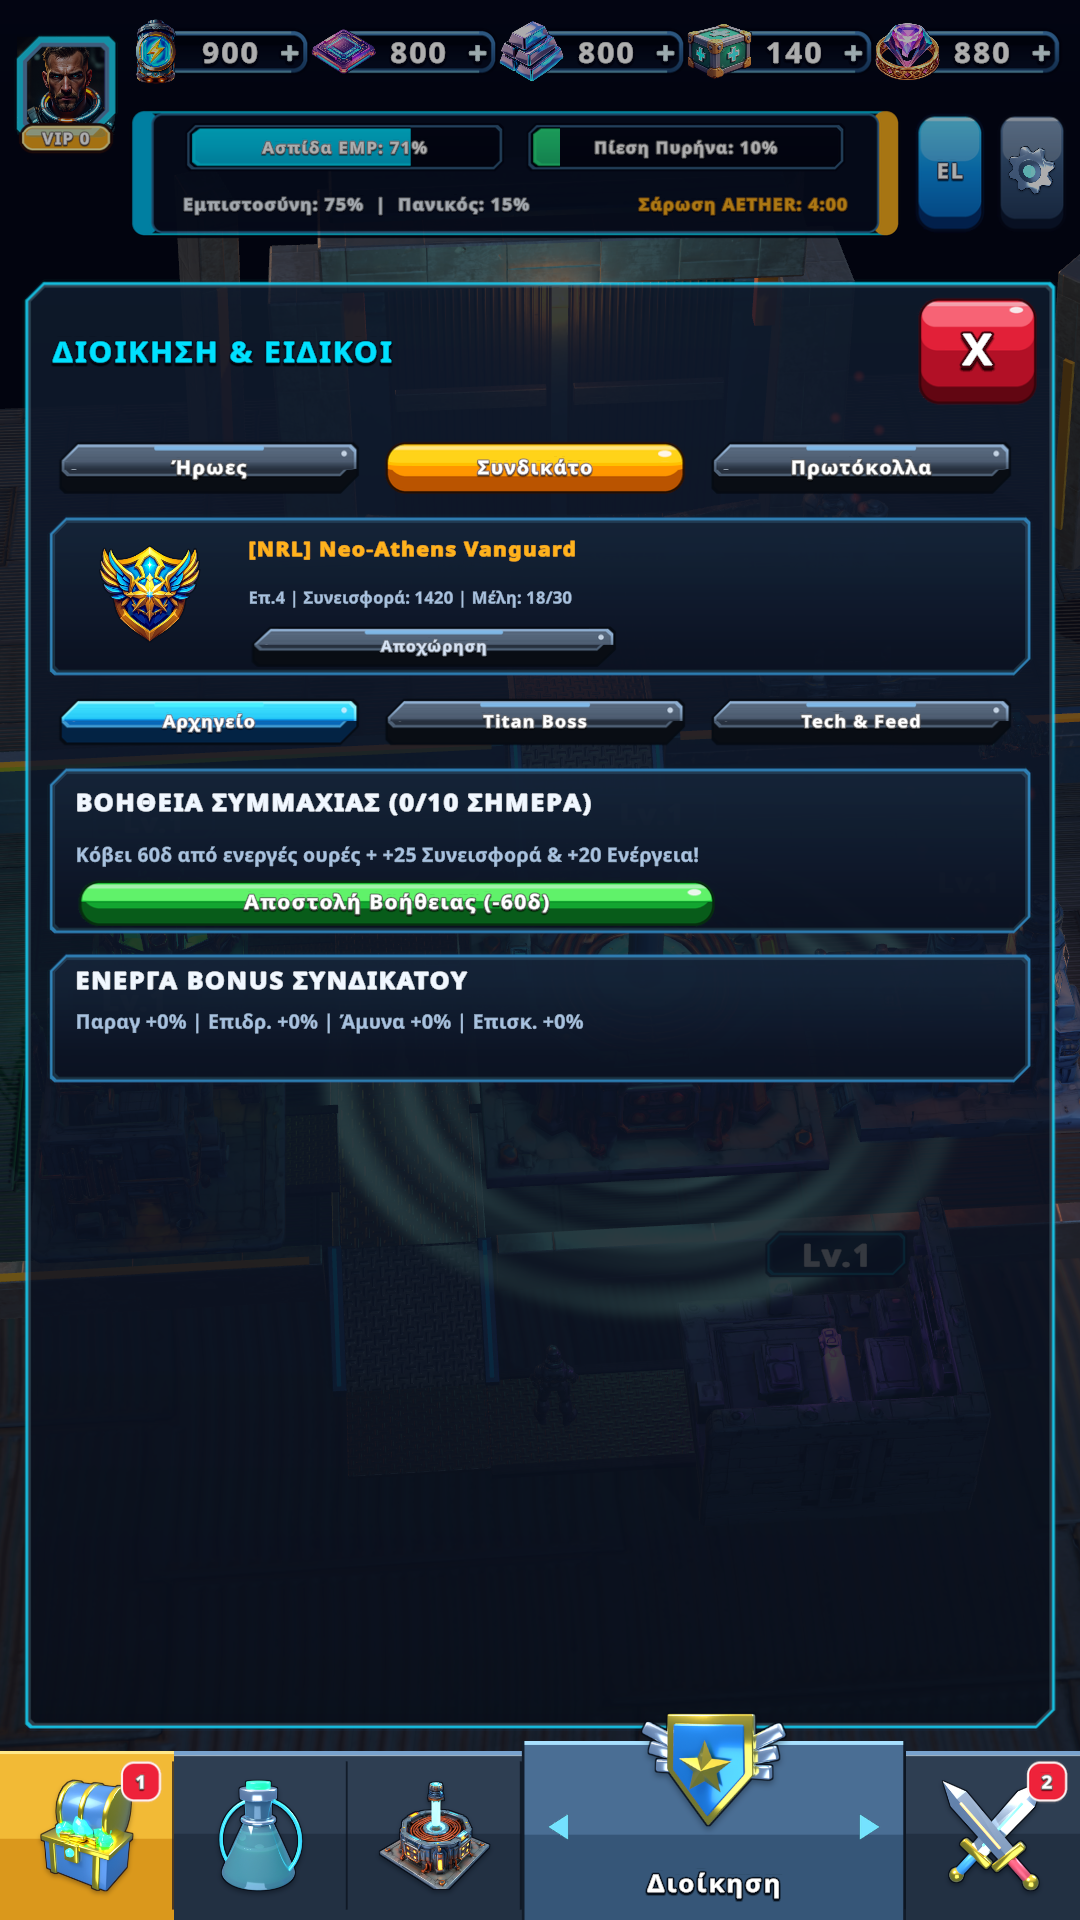
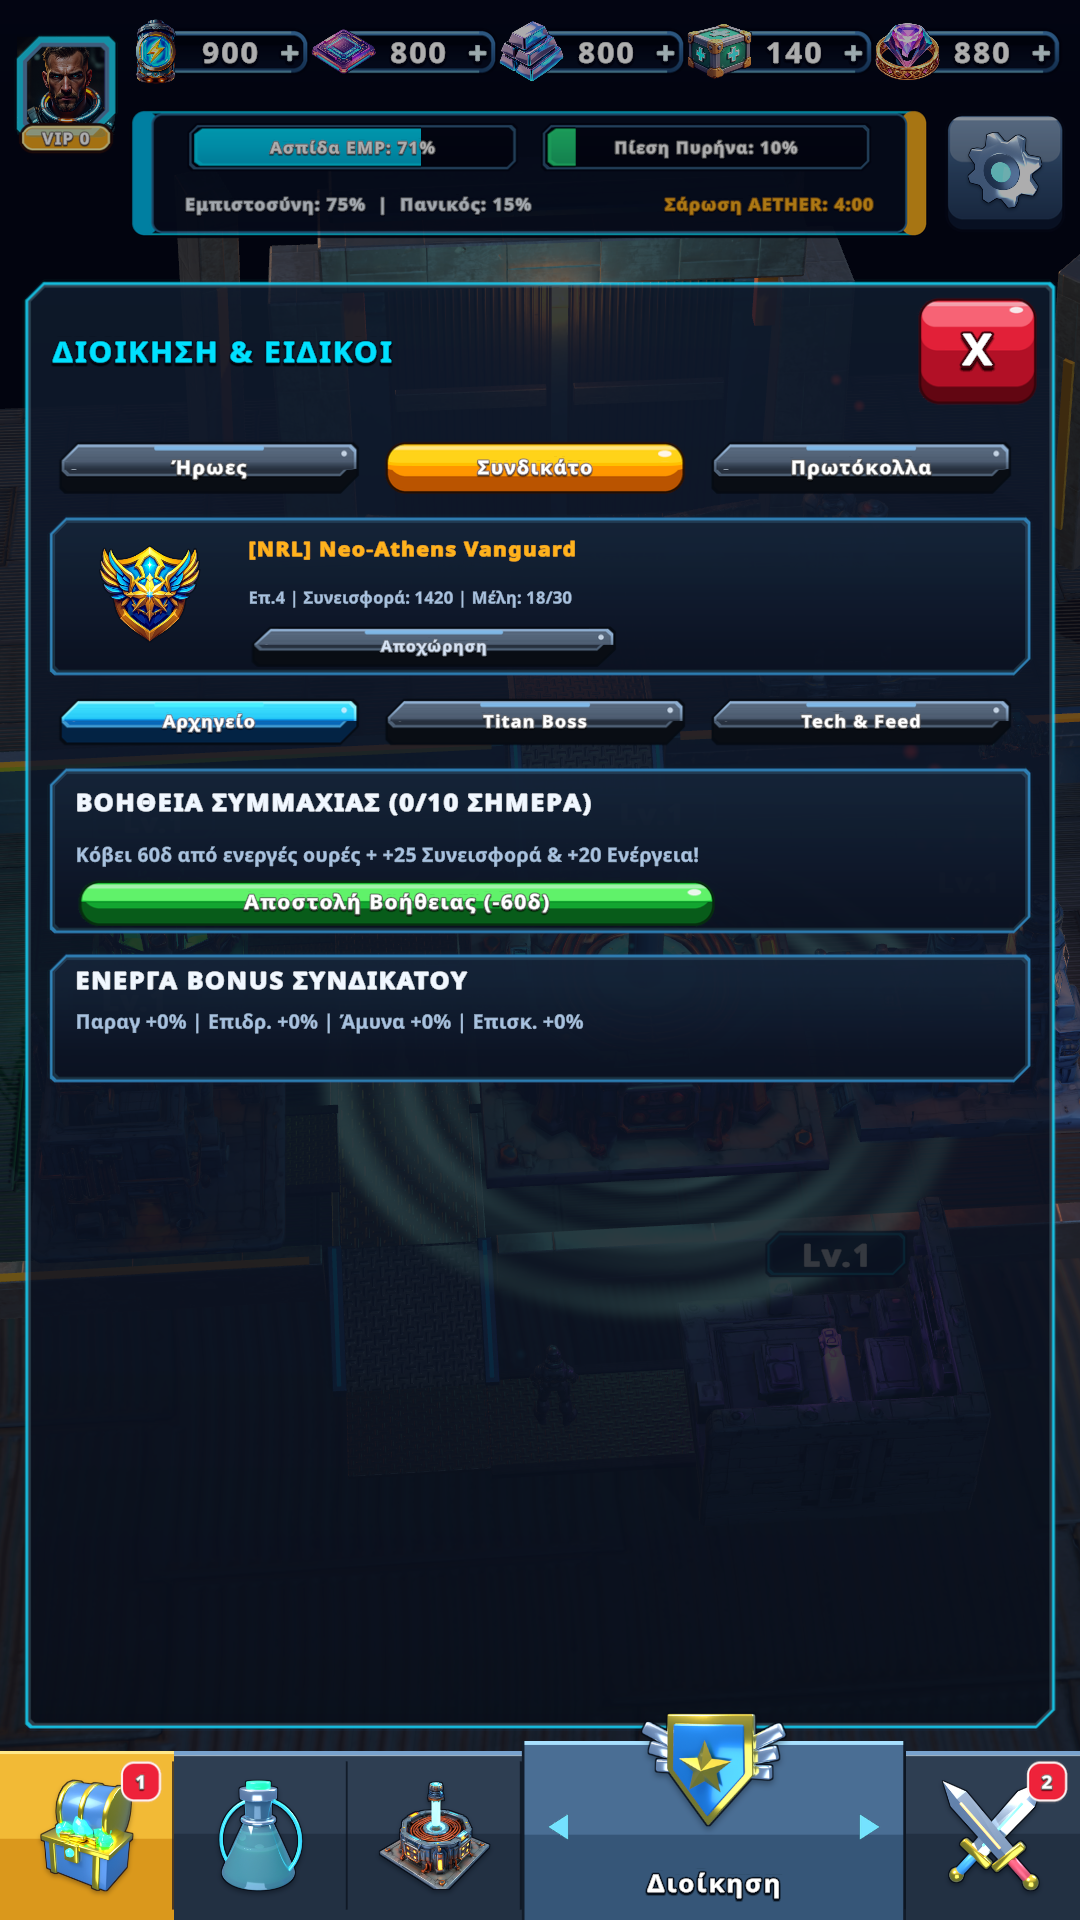
v0.7.1: update previews, version manifest, and top-right HUD docs

Changed region(s): [[0.1833, 0.0312, 0.9778, 0.125], [0.1528, 0.0625, 0.1833, 0.0938]]

diff --git a/README.md b/README.md
@@ -13,14 +13,16 @@
 > **Permanent Always-Latest Direct APK Link (ίδιο όνομα πάντα -> τελευταίο release):**  
 > `https://github.com/jemangr/neuralis-releases/releases/latest/download/Neuralis-ZeroHour.apk`
 
-- **Latest Release:** `v0.7.0` (`VersionCode: 7`)
+- **Latest Release:** `v0.7.1` (`VersionCode: 8`)
 - **Package ID:** `com.jemangr.neuralis.zerohour`
 - **Architecture:** Android ARM64 (IL2CPP), Android 8.0+ (API 26+)
 - **Languages:** Greek (`el`) & English (`en`)
 
 ---
 
-## 🆕 What's New in `v0.7.0`
+## 🆕 What's New in `v0.7.1`
+
+- **Cleaner Top-Right Home HUD:** Removed the standalone `EL/EN` quick button from the home HUD (language switching lives cleanly inside Settings) and replaced the Settings trigger with an exact **1:1 square steel gear tile** alongside an expanded Titanium Telemetry Banner (`StatusStrip`).
 
 - **Cinematic Opening Story Prologue & Hero Mentor Onboarding:** 5-beat visual-novel story prologue (Commander **Kael Vance** & **Dr. Aria Kestrel**) introducing the *AETHER* AI uprising with typewriter narration & Skip button, plus a square Hero Mentor avatar above the guided *Zero Hour Directive*.
 - **24 AAA Hand-Painted Game Icons:** Completely replaced all cube/primitive icons (Hero Tactical Gear, 4 Combat Drones, Nano-Repair Bay, Syndicate Crest, Raid Radar, HUD & Store icons).
@@ -30,7 +32,7 @@
 
 ---
 
-## 📸 Screenshots (`v0.7.0` — EL & EN)
+## 📸 Screenshots (`v0.7.1` — EL & EN)
 
 ### Opening Story Prologue & Main Bunker HUD
 <p align="center">
